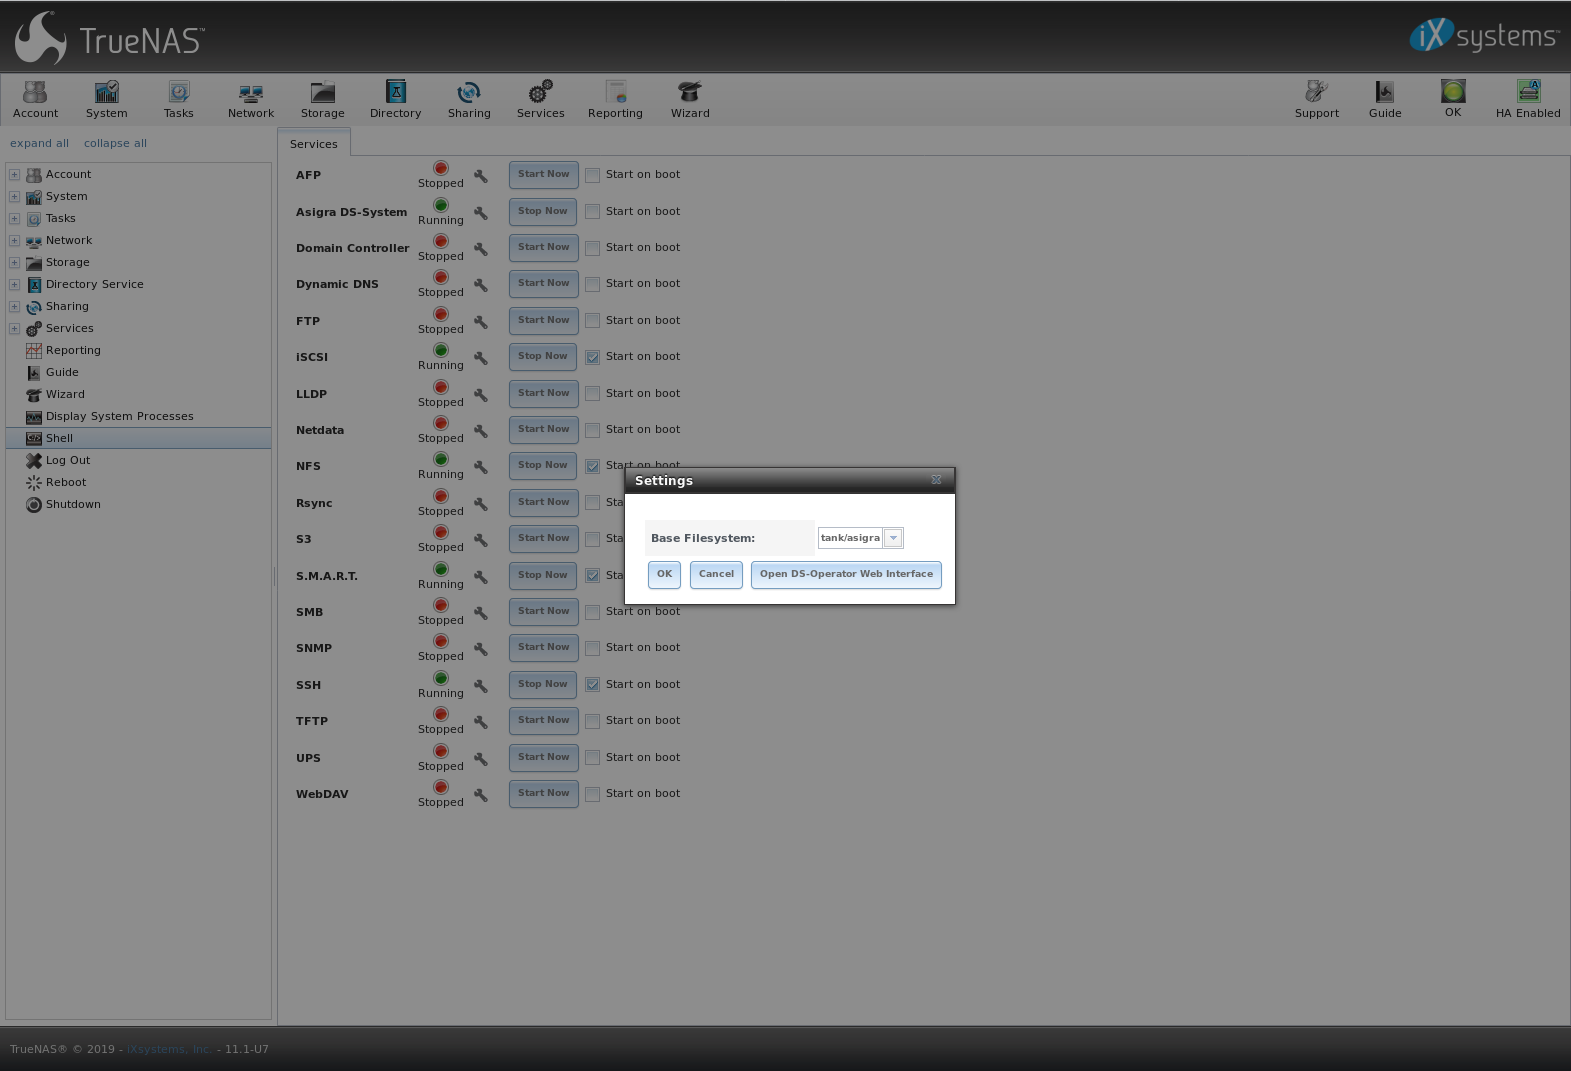
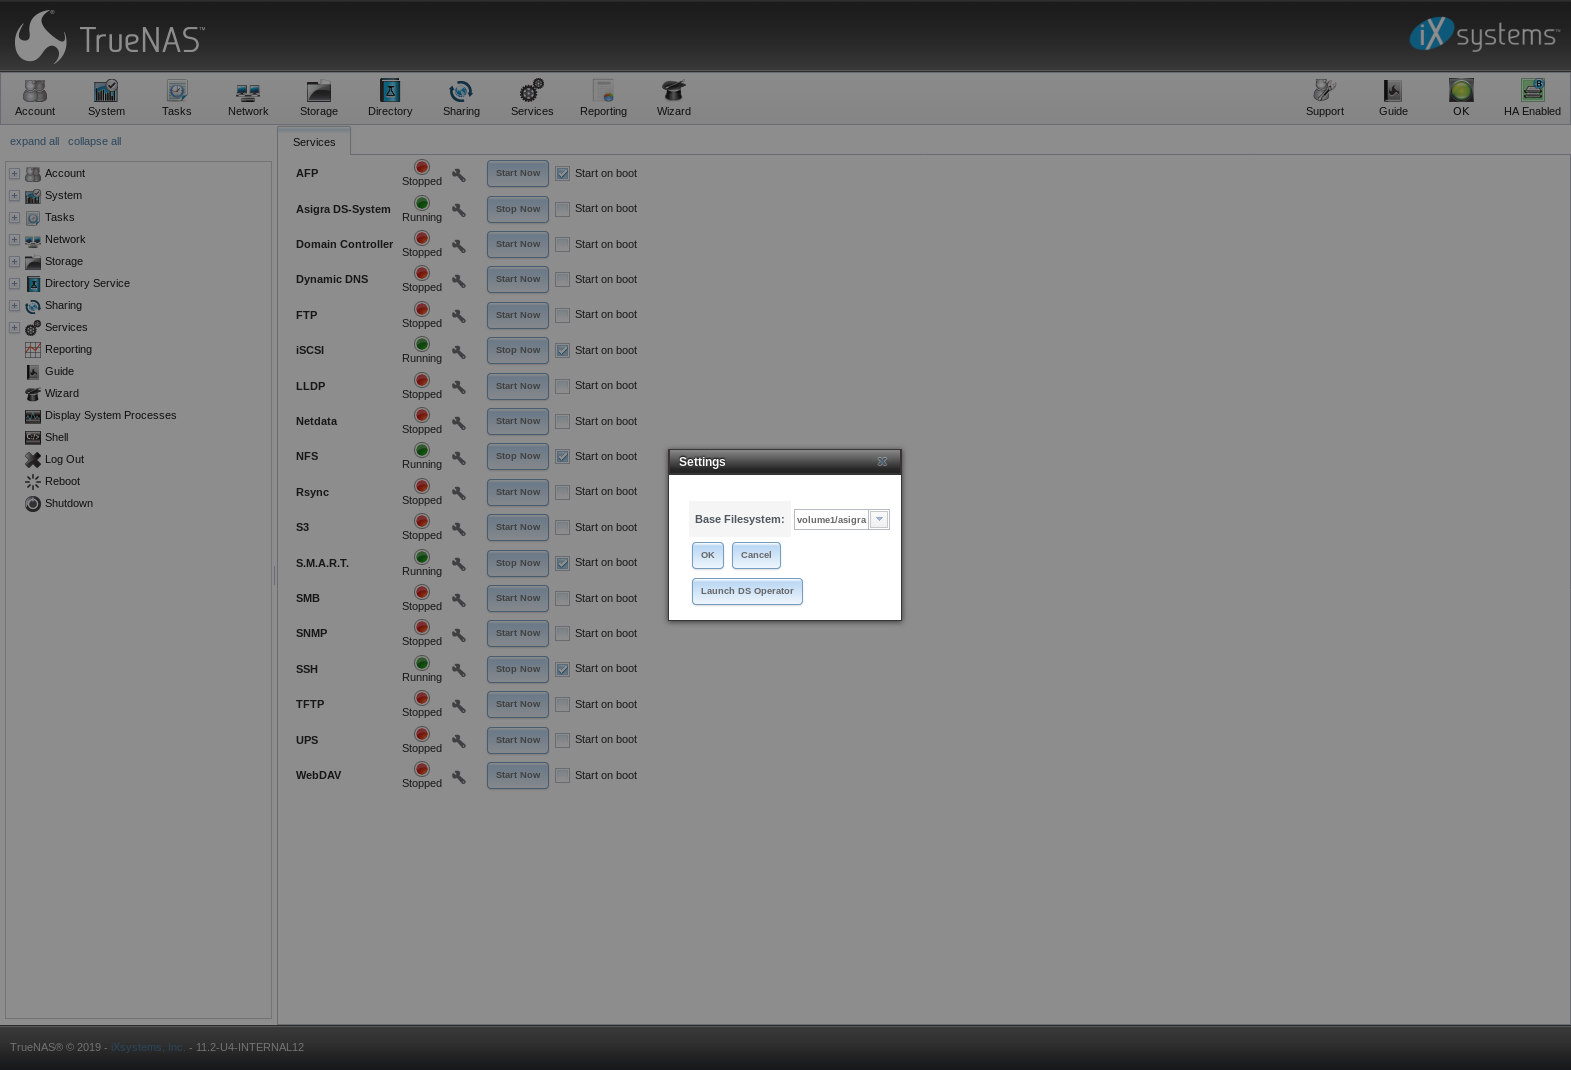
NAS-100987 : Update Asigra documentation - Add Asigra trademark information to trademarks.rst - Slight change to button labels for the asigra service. - Update services-asigra.png - TrueNAS HTML build test: no issues.

diff --git a/userguide/services.rst b/userguide/services.rst
@@ -236,21 +236,22 @@ Licensed Asigra Backup software can use %brand% as the storage backend.
 For the initial backend configuration, click
 :menuselection:`Services --> Asigra DS-System`. When prompted to choose
 the :guilabel:`Base Filesystem`, select the dataset to store the Asigra
-backups, then click :guilabel:`OK`. Any required database entries are created and the service is started.
+backups, then click :guilabel:`OK`. Any required database entries are
+created and the service is started.
 
 .. note:: Asigra DS-Operator requires a working installation of
    `Java JRE <https://www.oracle.com/technetwork/java/javase/downloads/jre8-downloads-2133155.html>`__
    and a security exception for the %brand% system. To add the exception,
    use :menuselection:`Configure Java --> Security --> Edit Site List --> Add`
    and enter the URL to the %brand% system. If the browser prompts for
-   the application to open *DSOP.jnlp* with, select Java Web Start
+   the application to open :file:`DSOP.jnlp` with, select Java Web Start
    Launcher (:command:`javaws`).
 
-While the service is running, the :guilabel:`Open DS-Operator Web Interface`
-button appears in
+While the service is running, the :guilabel:`Launch DS Operator` button
+appears in
 :menuselection:`Services --> Asigra DS-System`.
-Click :guilabel:`Open DS-Operator Web Interface` to download and launch the
-Asigra management application.
+Click :guilabel:`Launch DS Operator` to download and launch the Asigra
+management application.
 
 .. _asigra settings:
 
@@ -260,7 +261,7 @@ Asigra management application.
    Asigra settings
 
 `Contact Asigra <https://www.asigra.com/contact-us>`__
-for further documentation on using DS-Operator.
+for further documentation on using DS Operator.
 
 #endif truenas
 

diff --git a/userguide/snippets/trademarks.rst b/userguide/snippets/trademarks.rst
@@ -6,6 +6,9 @@ Microsoft Corporation in the United States and/or other countries.
 Apple, Mac and Mac OS are trademarks of Apple Inc., registered in the
 U.S. and other countries.
 
+Asigra Inc. Asigra, the Asigra logo, Asigra Cloud Backup, Recovery is
+Everything, Recovery Tracker and Attack-Loop are trademarks of Asigra Inc.
+
 #ifdef freenas
 Broadcom is a trademark of Broadcom Corporation.
 #endif freenas
